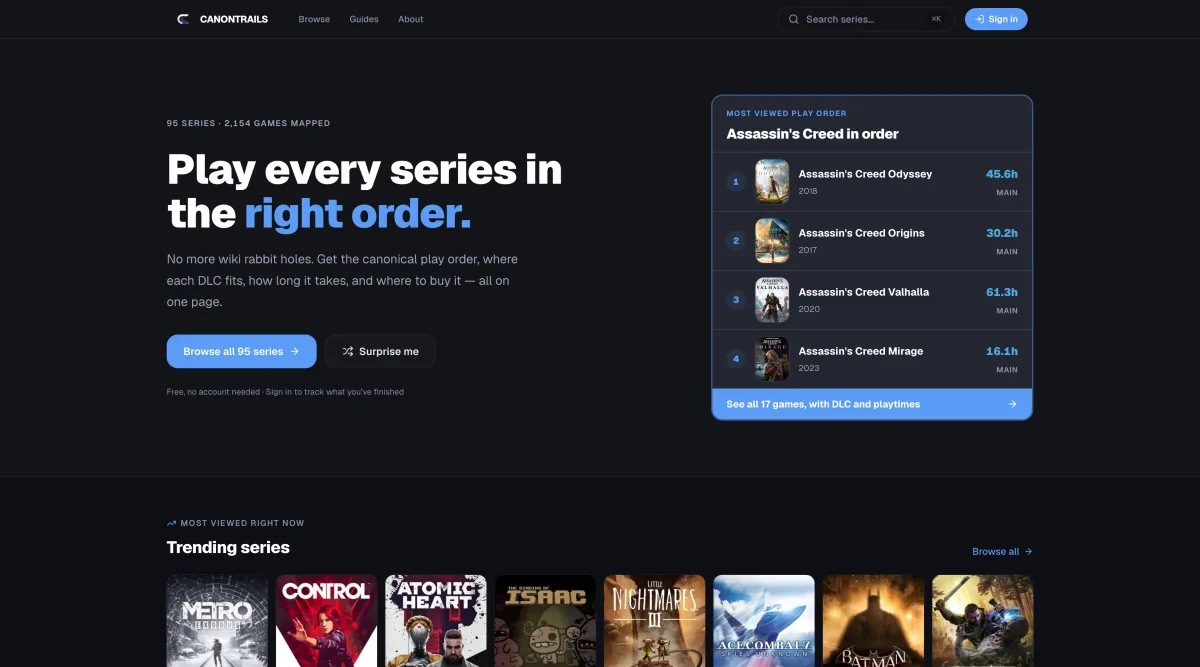
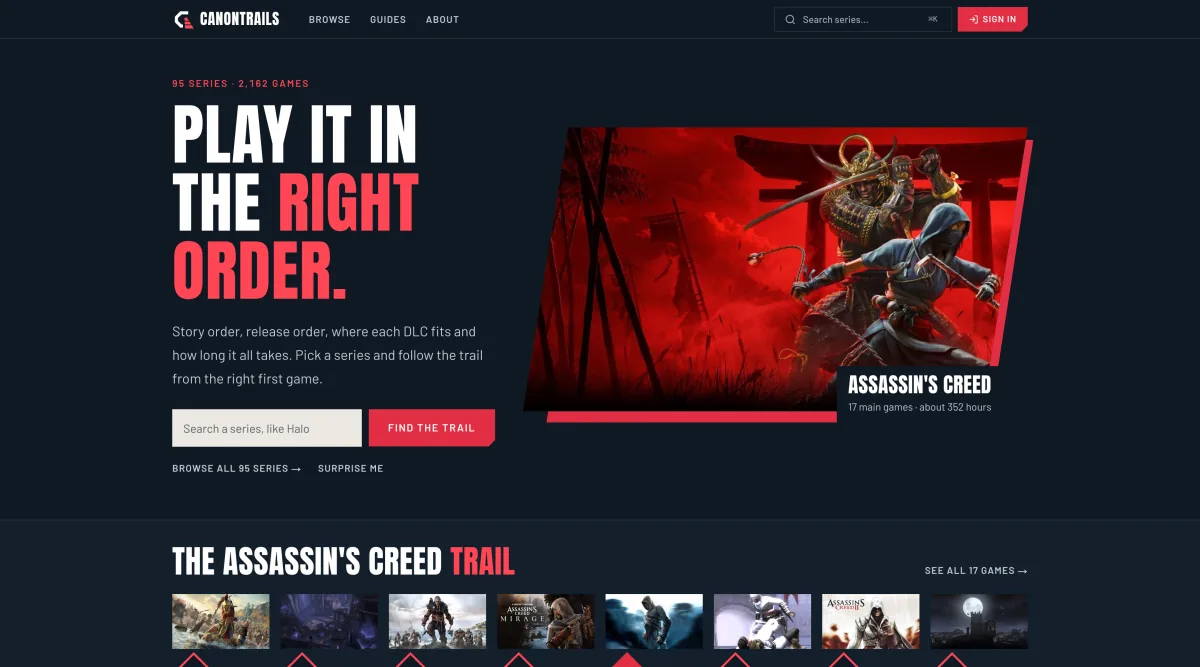
Refresh seven project screenshots from the redesigned live sites
Screenshots
- Geesly, BookList4U, CanonTrails, Animaruni, BestScreenTester,
  MaxCandela and Honest MRR recaptured from their live sites on
  2026-11-26 (1728x960 at 2x, fresh browser, no cookies or cache;
  BookList4U's cookie banner declined). NELA and Runnertic unchanged;
  the portfolio's own card is unchanged because its hero is.
- Alt text rewritten where the page changed: CanonTrails ("Play it in
  the right order" with the featured series trail) and Honest MRR (the
  headline beside the sample MRR receipt).

Copy
- MaxCandela: now a 27-tool menu-bar toolbox (14 free) with the XDR
  boost in Pro; tags list the frameworks it is built on.
- Honest MRR: blurb and JSON-LD describe the movement ledger, investor
  statements and share links, and the CI gate before deploys.

diff --git a/index.html b/index.html
@@ -250,7 +250,7 @@
                 "applicationCategory": "UtilitiesApplication",
                 "operatingSystem": "macOS",
                 "image": "https://nelera.net/images/maxcandela_image.webp",
-                "description": "A focused macOS menu-bar utility that unlocks the extra brightness built into MacBook Pro XDR displays with one click.",
+                "description": "A macOS menu-bar toolbox of 27 utilities, 14 of them free, including screenshots with markup, on-device text capture, a clipboard manager, per-app volume, and a brightness boost for MacBook Pro XDR displays.",
                 "author": { "@id": "https://nelera.net/#person" }
               }
             },
@@ -264,7 +264,7 @@
                 "applicationCategory": "BusinessApplication",
                 "operatingSystem": "Web browser",
                 "image": "https://nelera.net/images/honestmrr_image.webp",
-                "description": "A multi-tenant SaaS that computes auditable MRR, churn, LTV, and cohorts from Stripe, Paddle, RevenueCat, and six more billing providers, on an append-only ledger that traces every figure back to the provider's own record.",
+                "description": "A multi-tenant SaaS that computes auditable MRR, churn, LTV, and cohorts from Stripe, Paddle, RevenueCat, and six more billing providers, where every MRR movement opens to its ledger entry and the provider's own record.",
                 "author": { "@id": "https://nelera.net/#person" }
               }
             }
@@ -502,7 +502,7 @@
         <section class="banded" data-category="web">
             <!-- CanonTrails -->
             <div class="feature-row">
-                <div class="mockup"><img src="images/canontrails_image.webp" alt="CanonTrails homepage showing the most-viewed play order and trending game series" class="mockup-img" loading="lazy" decoding="async" width="1200" height="667"><span class="mockup-date">Created: March 2026</span></div>
+                <div class="mockup"><img src="images/canontrails_image.webp" alt="CanonTrails homepage with the headline &quot;Play it in the right order&quot; beside a featured Assassin's Creed series and its game trail" class="mockup-img" loading="lazy" decoding="async" width="1200" height="667"><span class="mockup-date">Created: March 2026</span></div>
                 <div class="feature-text">
                     <span class="eyebrow">Project · Live</span>
                     <h3>CanonTrails — The right order to play any game series</h3>
@@ -637,15 +637,19 @@
             <div class="feature-row">
                 <div class="feature-text">
                     <span class="eyebrow">Project · Live · macOS</span>
-                    <h3>MaxCandela — Brighter MacBook XDR displays</h3>
-                    <p>A macOS menu-bar app that lets MacBook Pro XDR displays reach the 1,000 nits the panel is rated for, instead of the roughly 600 macOS allows for everyday content. One click, true colors, no setup, and no account. Sold on the Mac App Store with a 5-day free trial.</p>
+                    <h3>MaxCandela — A menu-bar toolbox for Mac</h3>
+                    <p>27 Mac tools behind one menu-bar icon. Fourteen are free, including Keep Awake, focus sessions, break reminders, and clipboard tools; Pro adds screenshots with markup, on-device text capture, a clipboard manager, per-app volume, and an XDR brightness boost that takes MacBook Pro displays past the roughly 600 nits macOS allows everyday content. Native Swift and AppKit, sold on the Mac App Store at $0.99 a month or $9.99 once after a free trial.</p>
                     <div class="tag-list">
-                        <span class="tag">macOS</span>
-                        <span class="tag">Menu bar app</span>
-                        <span class="tag">XDR displays</span>
+                        <span class="tag">Swift</span>
+                        <span class="tag">AppKit</span>
+                        <span class="tag">Metal / EDR</span>
+                        <span class="tag">ScreenCaptureKit</span>
+                        <span class="tag">Vision OCR</span>
+                        <span class="tag">Core Audio</span>
+                        <span class="tag">StoreKit 2</span>
+                        <span class="tag">App Intents</span>
                         <span class="tag">Mac App Store</span>
-                        <span class="tag">Browser demo</span>
-                        <span class="tag">Landing page</span>
+                        <span class="tag">Next.js 16</span>
                     </div>
                     <div class="project-links">
                         <a href="https://maxcandela.com" class="btn btn-secondary" target="_blank" rel="noopener">Visit maxcandela.com →</a>
@@ -653,18 +657,18 @@
                         <a href="https://github.com/dkim0910/maxcandela" class="btn btn-secondary" target="_blank" rel="noopener">Source on GitHub</a>
                     </div>
                 </div>
-                <div class="mockup"><img src="images/maxcandela_image.webp" alt="MaxCandela product page for the macOS menu-bar XDR display brightness utility" class="mockup-img" loading="lazy" decoding="async" width="1200" height="667"><span class="mockup-date">Created: July 2026</span></div>
+                <div class="mockup"><img src="images/maxcandela_image.webp" alt="MaxCandela home page with the headline &quot;27 Mac tools. One menu-bar icon.&quot; beside the app's open menu of display controls and tools" class="mockup-img" loading="lazy" decoding="async" width="1200" height="667"><span class="mockup-date">Created: July 2026</span></div>
             </div>
         </section>
 
         <section class="banded" data-category="web">
             <!-- Honest MRR -->
             <div class="feature-row">
-                <div class="mockup"><img src="images/honestmrr_image.webp" alt="Honest MRR landing page with the headline &quot;MRR you can defend&quot; above a preview of the revenue overview dashboard" class="mockup-img" loading="lazy" decoding="async" width="1200" height="667"><span class="mockup-date">Created: October 2026</span></div>
+                <div class="mockup"><img src="images/honestmrr_image.webp" alt="Honest MRR landing page with the headline &quot;MRR you can defend.&quot; beside a sample monthly MRR receipt" class="mockup-img" loading="lazy" decoding="async" width="1200" height="667"><span class="mockup-date">Created: October 2026</span></div>
                 <div class="feature-text">
                     <span class="eyebrow">Project · Live · SaaS</span>
                     <h3>Honest MRR — Revenue metrics you can audit</h3>
-                    <p>Auditable MRR, churn, LTV, and cohort retention from nine billing providers, including Stripe, Paddle, and RevenueCat. Every number sits on an append-only, hash-chained ledger and traces back to the provider's own record, and Postgres row-level security isolates each tenant. Unit, integration, and Playwright end-to-end suites run in CI; the stack is self-hosted with Docker.</p>
+                    <p>Nine billing providers, including Stripe, Paddle, and RevenueCat, feed one ledger of MRR movements for MRR, churn, LTV, and cohort retention; ad spend, app-store reports, and traffic sit alongside it without ever counting as MRR. Every MRR movement opens to its ledger entry and the provider's own record, each billing record joins a per-tenant hash chain, and founders send investors monthly PDF statements or expiring share links. Self-hosted in Docker behind Postgres row-level security; unit, integration, and Playwright suites must pass before a deploy runs.</p>
                     <div class="tag-list">
                         <span class="tag">Next.js 16</span>
                         <span class="tag">TypeScript</span>

diff --git a/README.md b/README.md
@@ -16,8 +16,8 @@ A few of the projects you'll find on the site:
 - **Animaruni** — Track the anime you watch, get recommendations from your own library, and find out what that opening song is called.
 - **Runnertic** — A Korean running service for finding courses and photo spots and recording runs, built with a small team.
 - **BestScreenTester** — A free set of browser-based tools to test your screen for dead pixels, color accuracy, motion, and more. No sign-up needed.
-- **MaxCandela** — A small Mac app that unlocks the extra brightness built into MacBook Pro XDR displays with one click.
-- **Honest MRR** — Revenue analytics for SaaS founders: connect Stripe, Paddle, RevenueCat, and more, and get MRR, churn, and LTV numbers you can trace back to every transaction.
+- **MaxCandela** — A Mac menu-bar toolbox: 27 utilities behind one icon, 14 free, with a Pro tier that includes a brightness boost for MacBook Pro XDR displays.
+- **Honest MRR** — Revenue analytics for SaaS founders: connect Stripe, Paddle, RevenueCat, and six more providers for MRR, churn, and LTV, where every MRR movement opens to the provider's own record.
 
 ## Get in touch
 

diff --git a/CLAUDE.md b/CLAUDE.md
@@ -31,7 +31,7 @@ linked from the nav and footer, and `404.html` is the GitHub Pages error page (s
    - Animaruni (Next.js anime tracking site) — banded
    - Runnertic (Korean running service; the one **team** project — eyebrow says so, and its JSON-LD uses `contributor`, not `author`) — plain
    - BestScreenTester (Next.js screen-test suite) — banded
-   - MaxCandela (macOS XDR brightness utility, the only `desktop` row) — plain
+   - MaxCandela (macOS menu-bar toolbox with an XDR brightness boost, the only `desktop` row) — plain
    - Honest MRR (Next.js revenue-analytics SaaS) — banded
 5. **Contact** — radial-glow gradient card with Email / GitHub / LinkedIn buttons
 6. **Footer** — brand, nav + social links (including a Donate link), copyright + email on the bottom row
